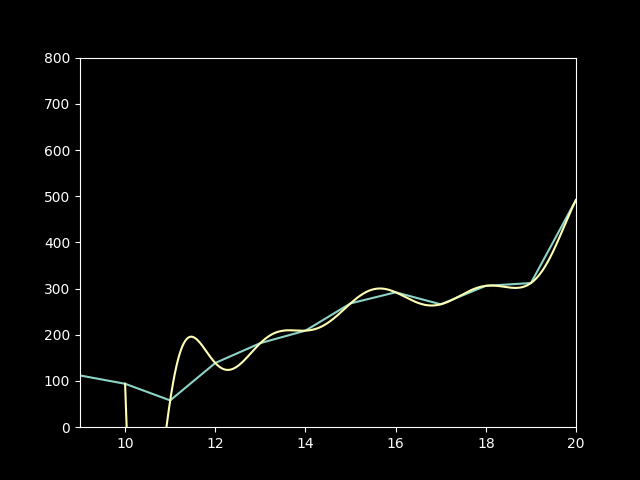
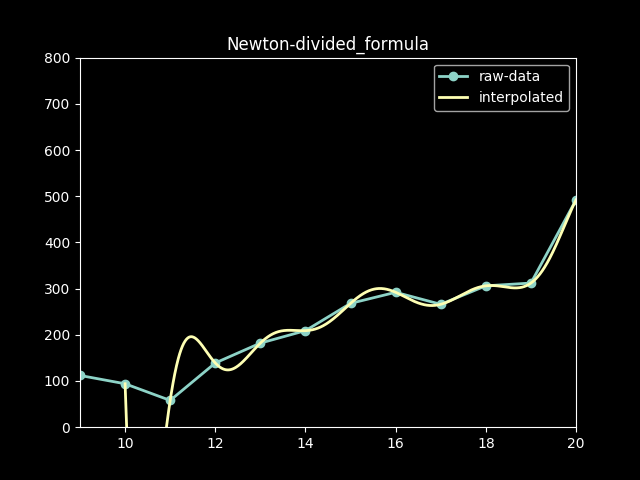
modifed

diff --git a/newton-forward-difference.py b/newton-forward-difference.py
@@ -30,12 +30,14 @@ def f(x1):
         fl.write('\n')
         result=result+coff(i,x1)*x[0,i+1]
     return result    
-plt.plot(x[:,0],x[:,1])
+plt.plot(x[:,0],x[:,1],label='raw-data',linewidth=2,marker='o')
 q=linspace(10,20,1000)
 w=array(f(q))
 plt.xlim(9,20)
 plt.ylim(0,800)
-plt.plot(q,w)
+plt.plot(q,w,label='interpolated',linewidth=2)
+plt.title('Newton-divided_formula')
+plt.legend()
 plt.savefig('newton-forward.png')
 plt.show()
 fl.write('result is %5.2f'%(w[-1]))
